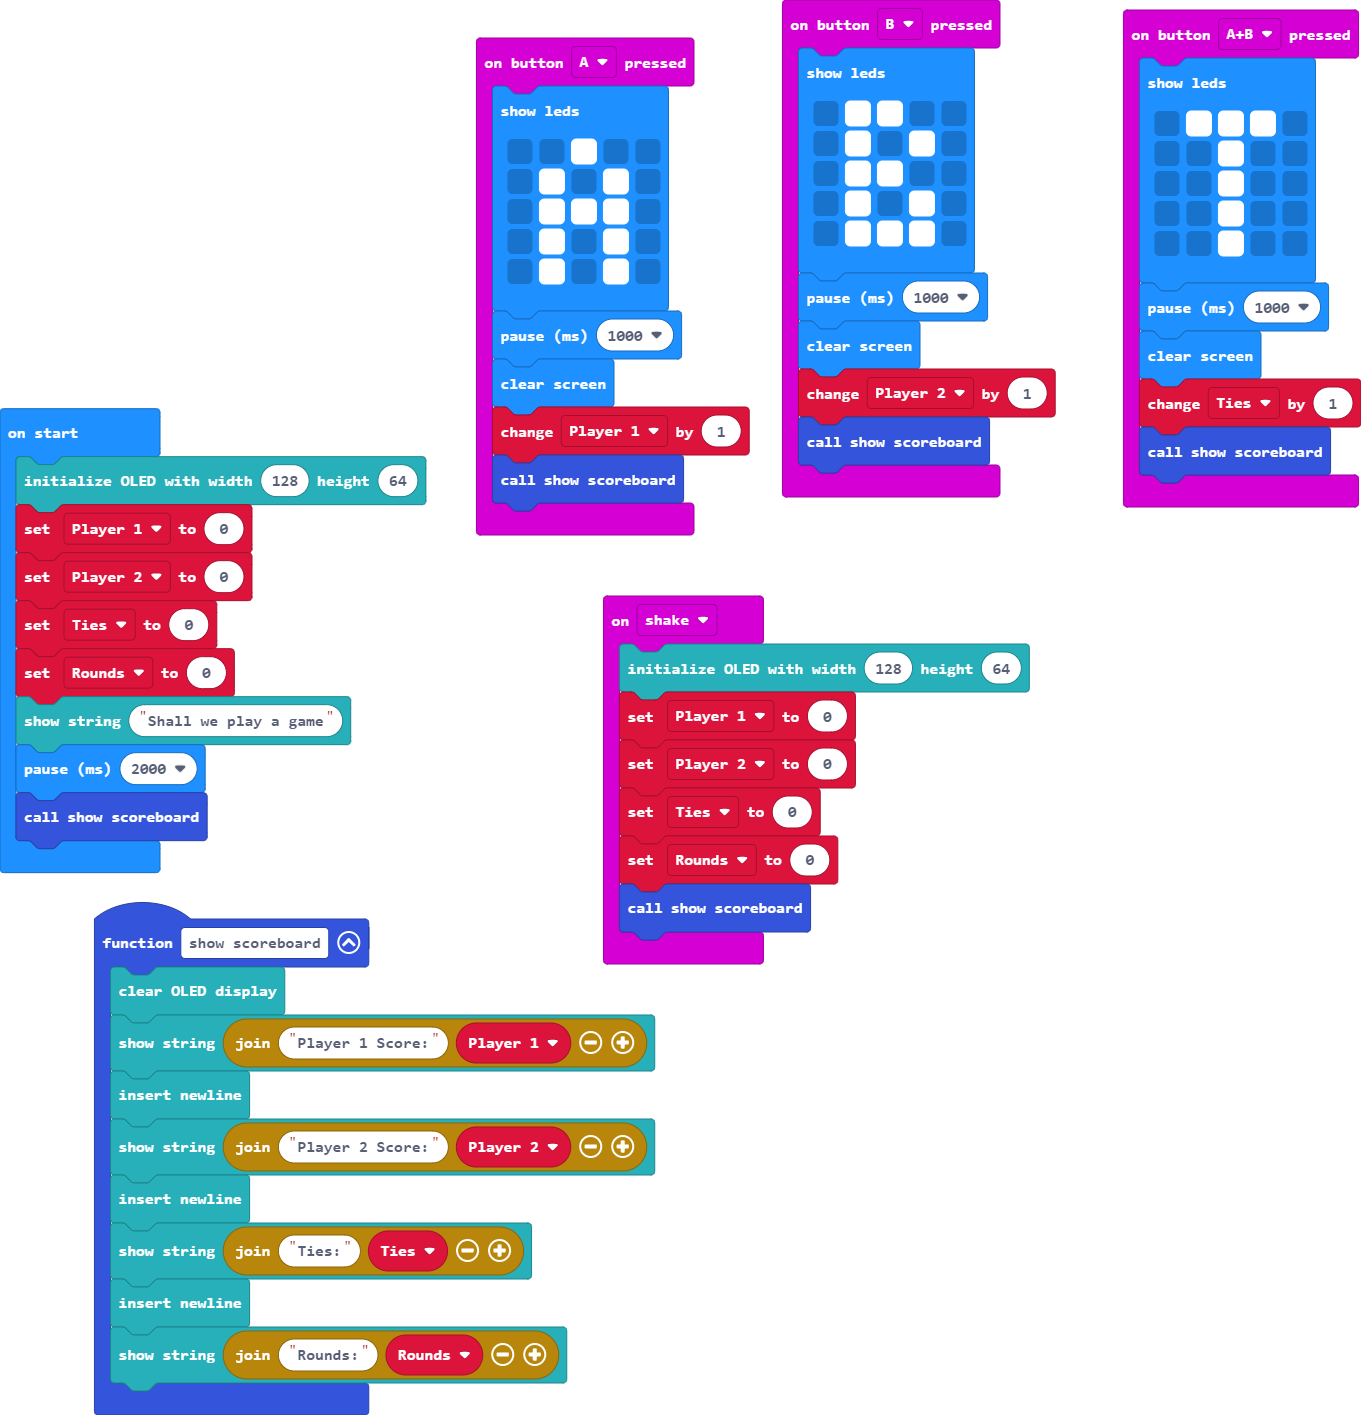
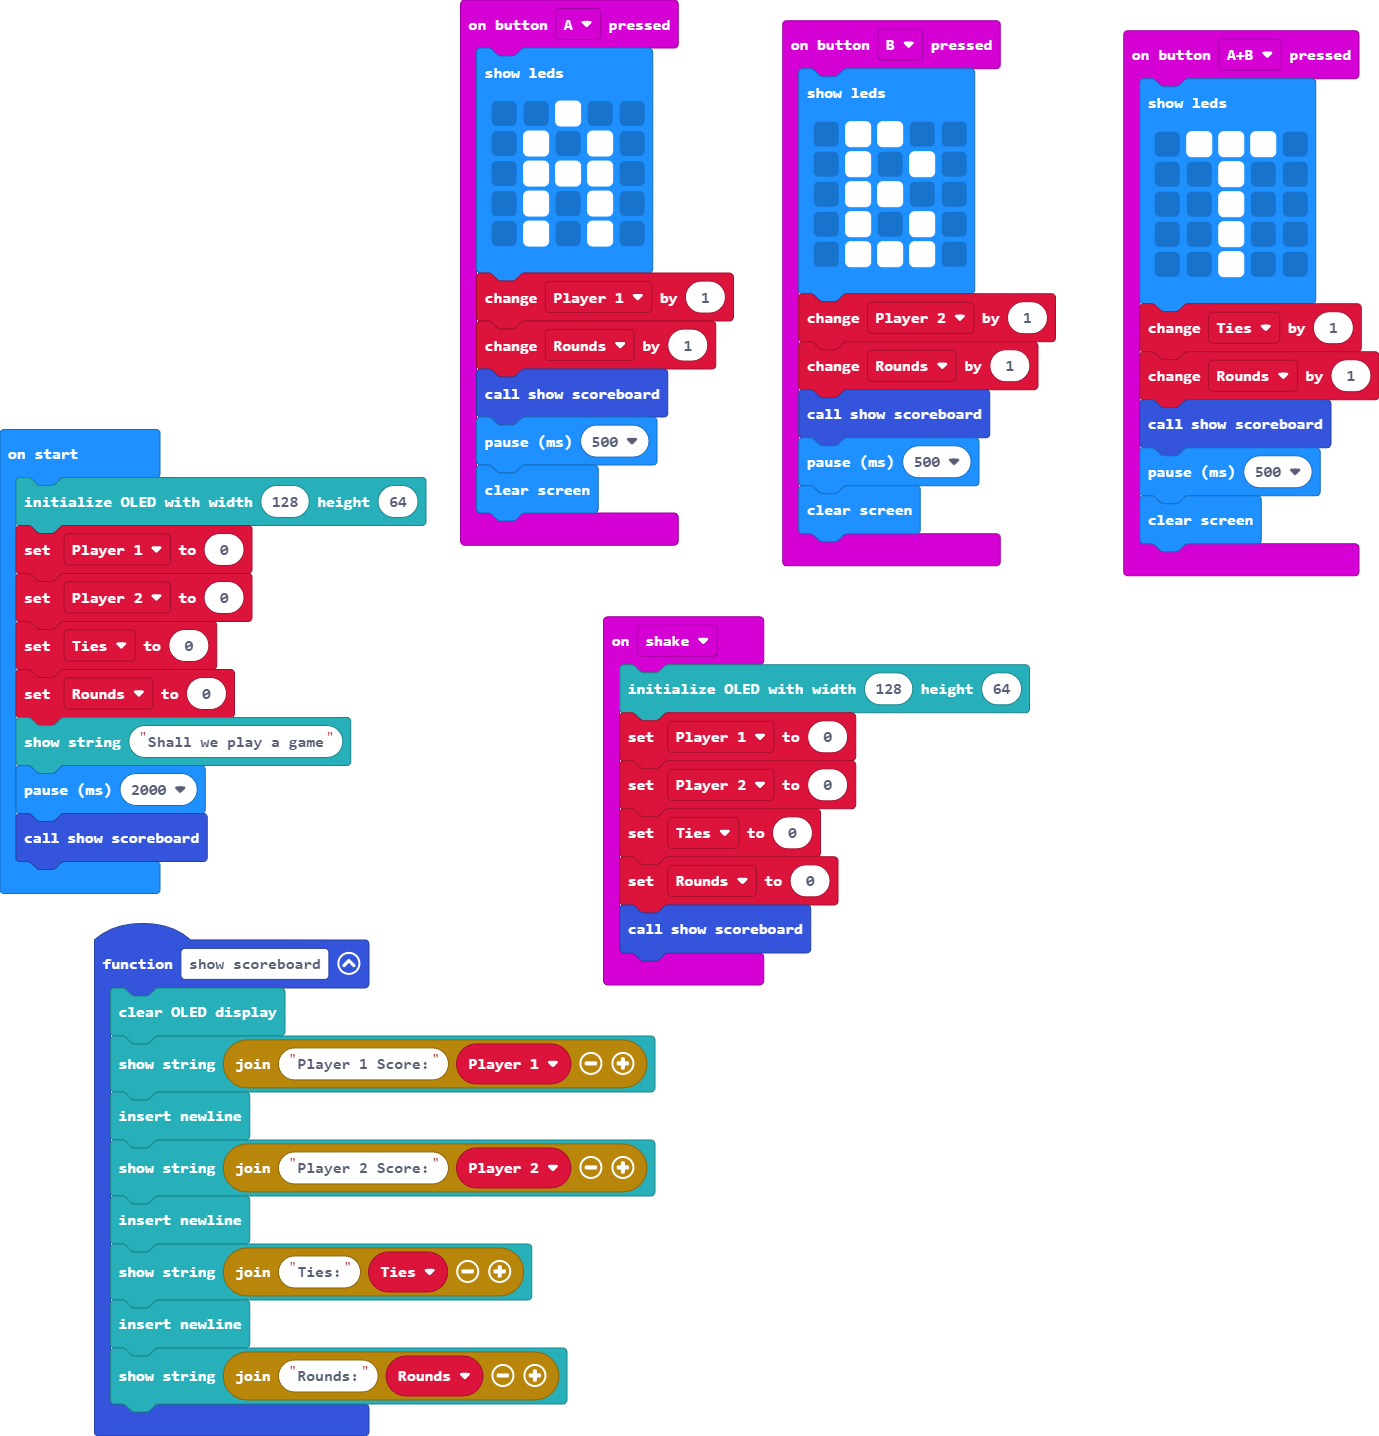
Update main.blocks, main.ts

Changed region(s): [[0.0, 0.0, 0.7715, 1.0], [0.8024, 0.0, 1.0, 0.4042], [0.432, 0.4042, 0.7715, 0.6841]]

diff --git a/main.ts b/main.ts
@@ -6,10 +6,11 @@ input.onButtonPressed(Button.A, function () {
         . # . # .
         . # . # .
         `)
-    basic.pause(1000)
-    basic.clearScreen()
     Player_1 += 1
+    Rounds += 1
     show_scoreboard()
+    basic.pause(500)
+    basic.clearScreen()
 })
 function show_scoreboard () {
     OLED.clear()
@@ -29,10 +30,11 @@ input.onButtonPressed(Button.AB, function () {
         . . # . .
         . . # . .
         `)
-    basic.pause(1000)
-    basic.clearScreen()
     Ties += 1
+    Rounds += 1
     show_scoreboard()
+    basic.pause(500)
+    basic.clearScreen()
 })
 input.onButtonPressed(Button.B, function () {
     basic.showLeds(`
@@ -42,10 +44,11 @@ input.onButtonPressed(Button.B, function () {
         . # . # .
         . # # # .
         `)
-    basic.pause(1000)
-    basic.clearScreen()
     Player_2 += 1
+    Rounds += 1
     show_scoreboard()
+    basic.pause(500)
+    basic.clearScreen()
 })
 input.onGesture(Gesture.Shake, function () {
     OLED.init(128, 64)
